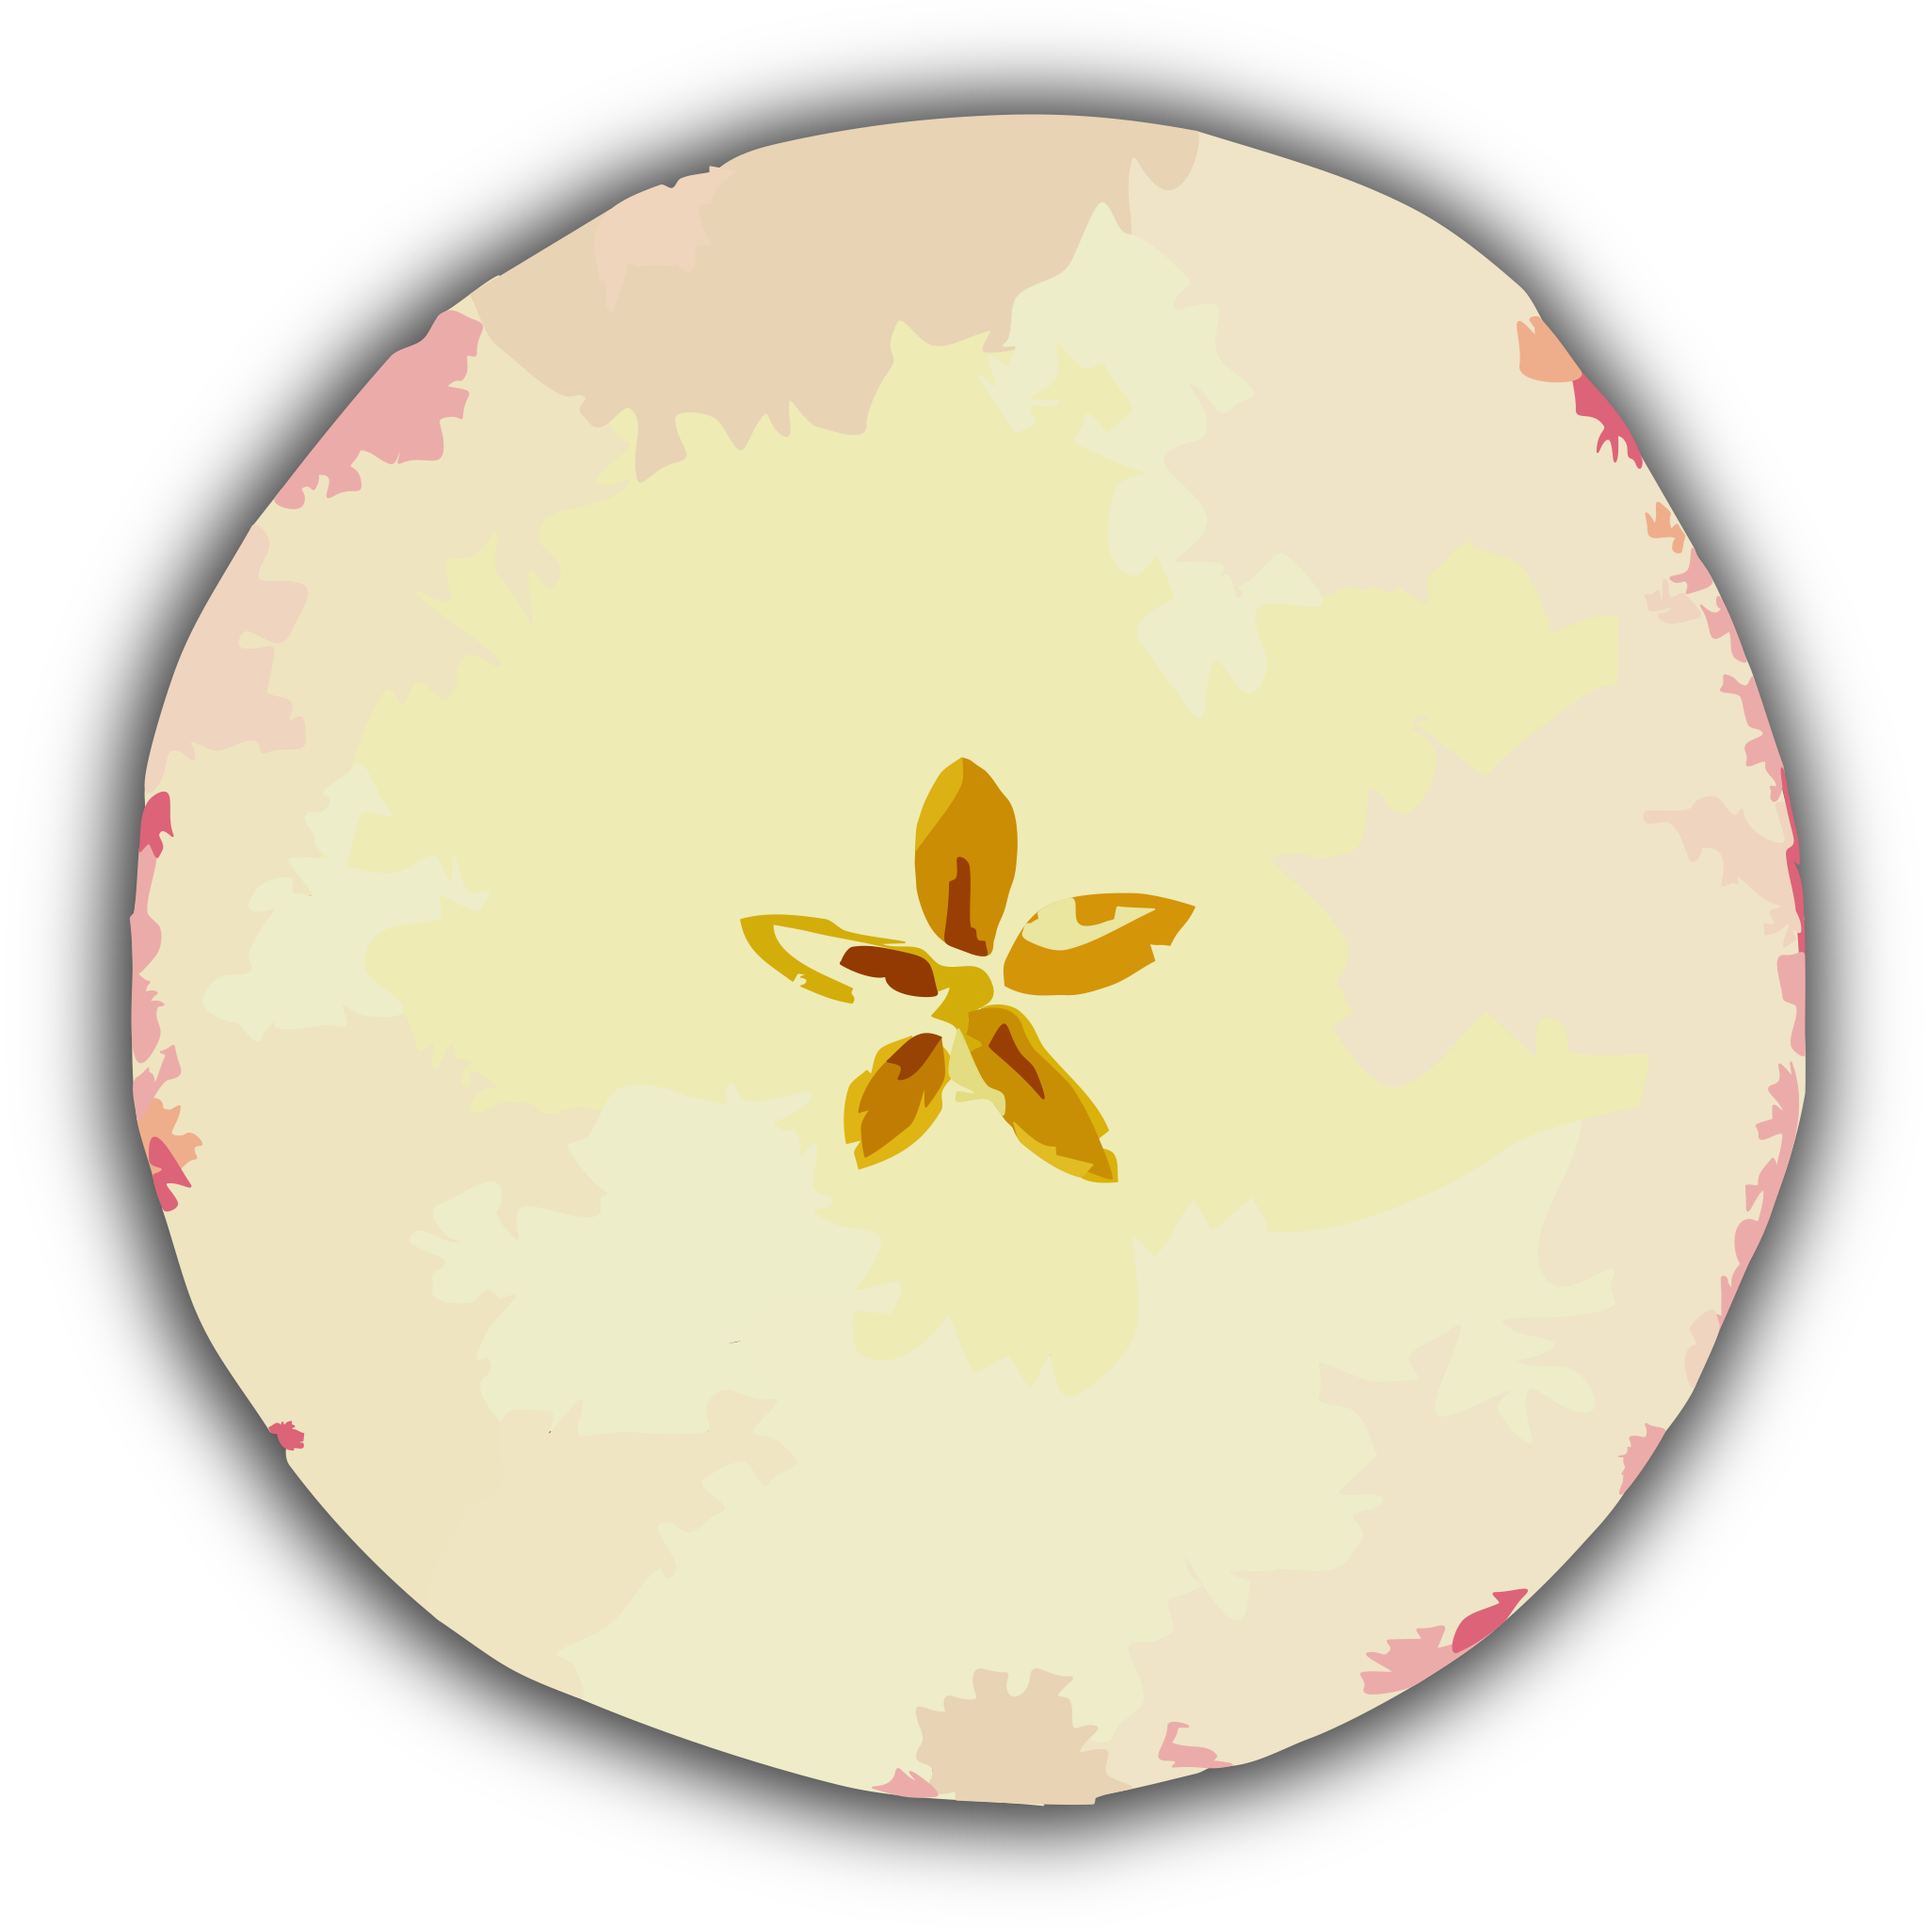
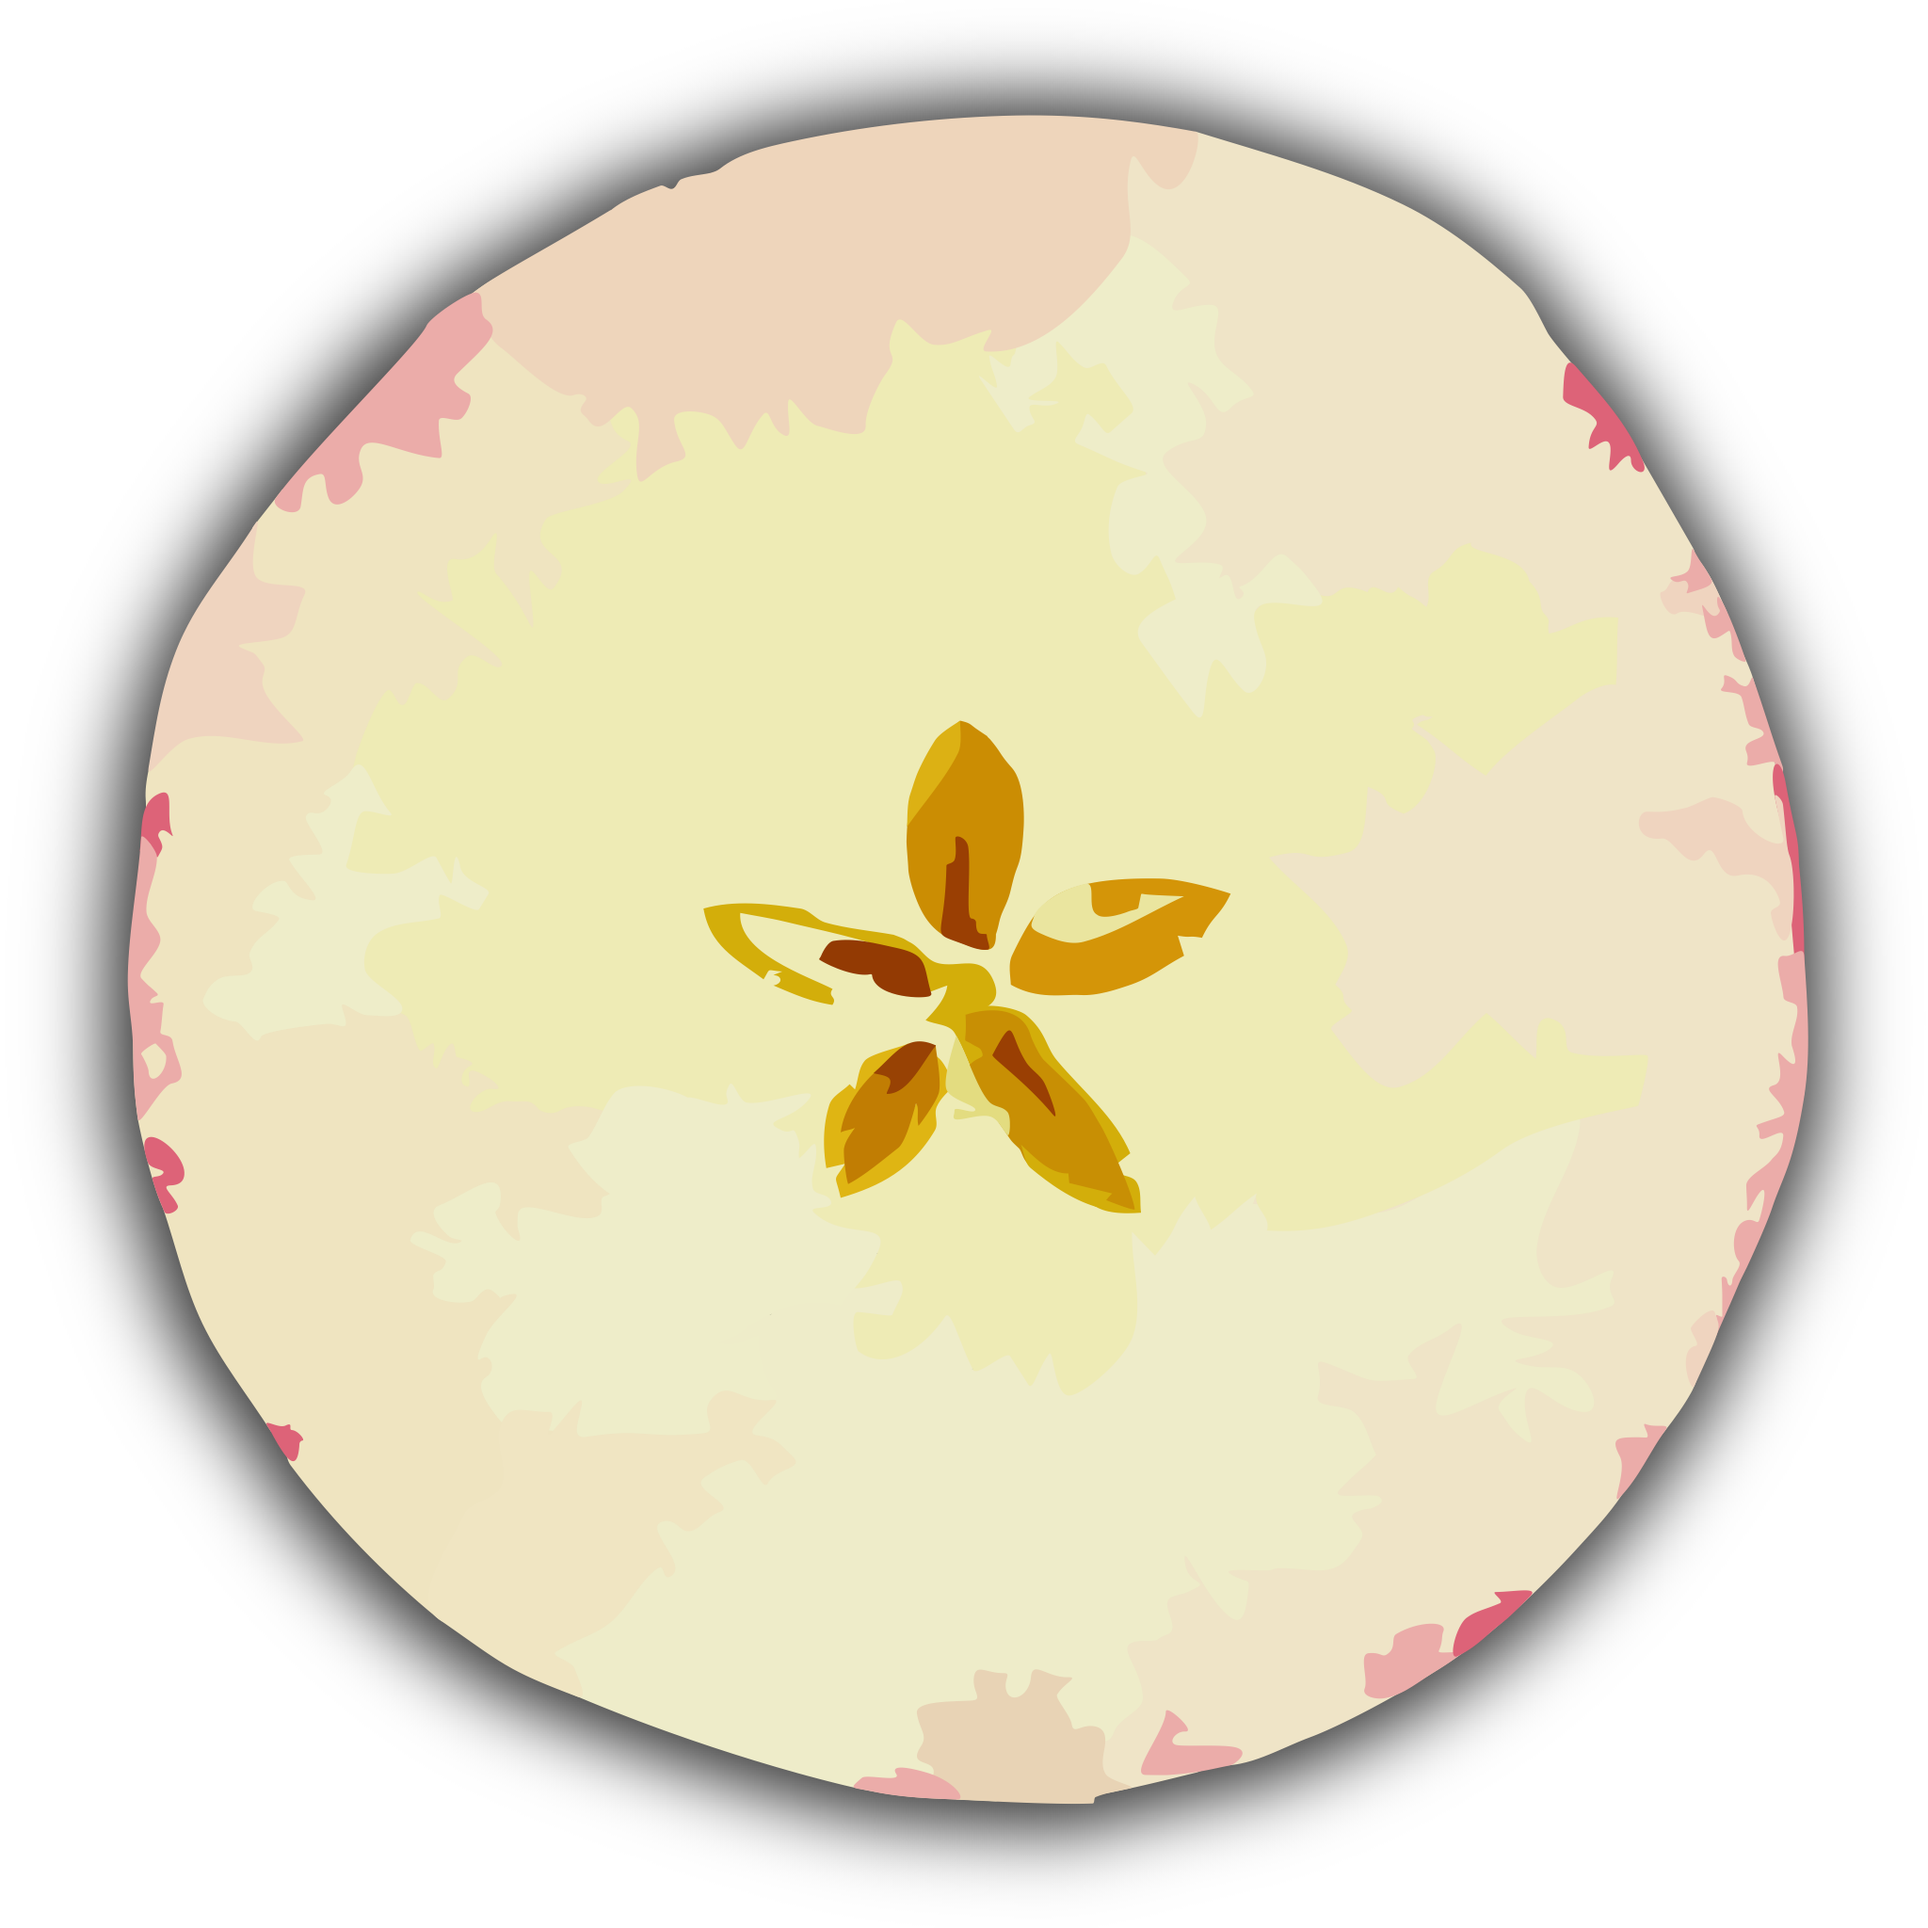
autoscale hands and font size

diff --git a/analog_clock/lib/models/hand.dart b/analog_clock/lib/models/hand.dart
@@ -1,23 +1,26 @@
+import 'package:analog_clock/constans.dart';
 import 'package:flutter/material.dart';
 
-// scale of hand borders
-final _defaultScale = 0.95;
+// Default scale of hand widget.
+const _defaultScale = 1.0;
 
 class Hand extends StatelessWidget {
-  final Widget child;
-  final double angleRadians;
+  final Widget _child;
+  final double _angleRadians;
   final double _scale;
   final double _offset;
 
   const Hand({
     @required double angleRadians,
     @required Widget child,
-    double scale,
-    double offset,
+    double scale = _defaultScale,
+    double offset = 0,
   })  : assert(angleRadians != null),
         assert(child != null),
-        this.angleRadians = angleRadians,
-        this.child = child,
+        assert(offset >= -1 && offset <= 1),
+        assert(scale > 0),
+        this._angleRadians = angleRadians,
+        this._child = child,
         this._scale = scale,
         this._offset = offset;
 
@@ -26,15 +29,15 @@ class Hand extends StatelessWidget {
     return Center(
       child: SizedBox.expand(
         child: Transform.rotate(
-          angle: angleRadians,
+          angle: _angleRadians,
           alignment: Alignment.center,
           child: Transform.translate(
-            offset: Offset(0, (_offset != null) ? _offset : 0),
+            offset: Offset(0, _offset * unit * 3 / 2),
             child: Transform.scale(
               scale: (_scale != null) ? _scale : _defaultScale,
               alignment: Alignment.center,
               child: Container(
-                child: Center(child: child),
+                child: Center(child: _child),
               ),
             ),
           ),

diff --git a/analog_clock/lib/analog_clock.dart b/analog_clock/lib/analog_clock.dart
@@ -4,6 +4,7 @@
 
 import 'dart:async';
 
+import 'package:analog_clock/constans.dart';
 import 'package:analog_clock/widgets/date.dart';
 import 'package:analog_clock/widgets/second_hand.dart';
 import 'package:analog_clock/widgets/weather_info.dart';
@@ -102,6 +103,11 @@ class _AnalogClockState extends State<AnalogClock> {
           );
 
     final time = DateFormat.Hms().format(DateTime.now());
+
+    var _size = MediaQuery.of(context).size;
+    unit = ((_size.width / _size.height > 5 / 3))
+        ? _size.height / 3
+        : _size.width / 5;
 
     return Semantics.fromProperties(
       properties: SemanticsProperties(

diff --git a/analog_clock/lib/widgets/weather_info.dart b/analog_clock/lib/widgets/weather_info.dart
@@ -15,11 +15,7 @@ class WeatherInfo extends StatelessWidget {
 
   @override
   Widget build(BuildContext context) {
-    var _size = MediaQuery.of(context).size;
-    double _textSize = ((_size.width / _size.height > 5 / 3))
-        ? _size.height / 3 * 0.1
-        : _size.width / 5 * 0.1;
-    _textSize = _textSize * fontScale;
+    var _textSize = unit * fontScale;
     return Align(
       alignment: Alignment.bottomLeft,
       child: Padding(
@@ -48,3 +44,5 @@ class WeatherInfo extends StatelessWidget {
     );
   }
 }
+
+class _textSize {}

diff --git a/analog_clock/lib/widgets/date.dart b/analog_clock/lib/widgets/date.dart
@@ -33,11 +33,7 @@ class Date extends StatelessWidget {
 
   @override
   Widget build(BuildContext context) {
-    var _size = MediaQuery.of(context).size;
-    double _textSize = ((_size.width / _size.height > 5 / 3))
-        ? _size.height / 3 * 0.1
-        : _size.width / 5 * 0.1;
-    _textSize = _textSize * fontScale;
+    var _textSize = unit * fontScale;
     return Align(
       alignment: Alignment.topRight,
       child: Padding(

diff --git a/analog_clock/lib/widgets/hour_hand.dart b/analog_clock/lib/widgets/hour_hand.dart
@@ -9,8 +9,8 @@ final radiansPerHour = radians(360 / 12);
 
 Widget HourHand(DateTime now) {
   return Hand(
-      offset: -50,
-      scale: 0.7,
+      offset: -0.45,
+      scale: 0.25,
       angleRadians:
           now.hour * radiansPerHour + (now.minute / 60) * radiansPerHour,
       child: Image.asset(Hands.hour));

diff --git a/analog_clock/lib/constans.dart b/analog_clock/lib/constans.dart
@@ -8,7 +8,7 @@ class Hands {
 }
 
 const _fontWeight = FontWeight.w300;
-const fontScale = 2;
+const fontScale = 0.2;
 
 TextStyle fontStyle(double size) {
   return GoogleFonts.montserrat(
@@ -21,3 +21,5 @@ TextStyle fontStyle(double size) {
     fontWeight: _fontWeight,
   );
 }
+
+double unit;

diff --git a/analog_clock/lib/widgets/minute_hand.dart b/analog_clock/lib/widgets/minute_hand.dart
@@ -10,8 +10,8 @@ final radiansPerTick = radians(360 / 60);
 
 Widget MinuteHand(DateTime now) {
   return Hand(
-    offset: -15,
-    scale: 0.8,
+    offset: -0.3,
+    scale: 0.6,
     angleRadians: now.minute * radiansPerTick,
     child: Image.asset(Hands.minute),
   );

diff --git a/analog_clock/lib/widgets/second_hand.dart b/analog_clock/lib/widgets/second_hand.dart
@@ -14,5 +14,6 @@ Widget SecondHand(DateTime now) {
     angleRadians:
         now.second * radiansPerSecond + now.millisecond * radiansPerMilisecond,
     child: Image.asset(Hands.second),
+    scale: 1.05,
   );
 }
